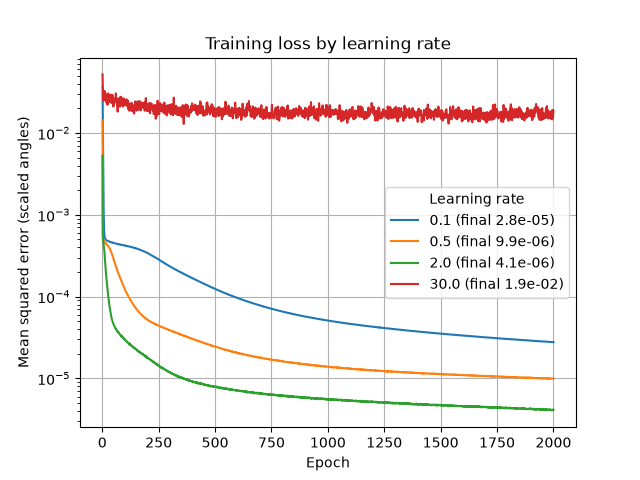
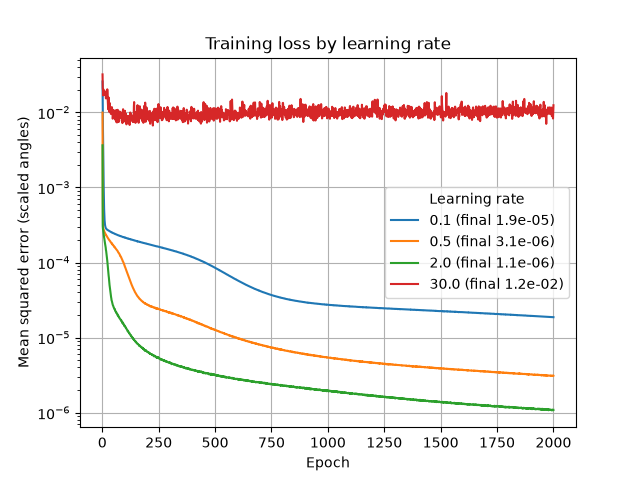
Update write-ups for the energy-penalised final gait

diff --git a/fitness_design.md b/fitness_design.md
@@ -8,7 +8,7 @@ Status: final. It covers the six terms in `fitness.py`, used for the final GA ru
 
 ## The terms
 
-Three rewards and three penalties. Every term runs from 0 to 1, except forward, which runs from -1 to 1.
+Three rewards and four penalties. Every term runs from 0 to 1, except forward, which runs from -1 to 1.
 
 - Support (reward): the fraction of frames in which at least 4 feet are touching the floor. The legs walk in two teams of four, so four feet on the ground is what a working gait looks like, and it is the stability the brief asks for.
 - Lift (reward): how far each foot rises above the top of the band at its highest point, as a fraction of 0.10 (capped at 1), averaged over the eight feet. It only counts for a foot that touches the floor at some point, so a leg held up in the air earns nothing. 0.10 above the band is about 0.15 above the floor, close to the 0.14 the best wave reached in the floor test. A spider that stands still scores 0.
@@ -16,12 +16,13 @@ Three rewards and three penalties. Every term runs from 0 to 1, except forward, 
 - Below floor (penalty): how far the feet go below -0.35, averaged over every foot and frame, divided by 0.033. The deepest any foot can reach is -0.383, so 0.033 is the deepest a foot can be below the band. A deeper dip costs more.
 - Too high (penalty): how far each foot's highest point is above z = -0.05 (just below body level), as a fraction of 0.5 (capped at 1). The lift reward stops at 1, so before this term a foot at z = 1.4 cost nothing.
 - Crowding (penalty): how far neighbouring feet, seen from above, come within 0.5 of each other, as a fraction of 0.5, averaged over the eight neighbouring pairs and every frame. 0.5 is the closest L1 and L2 get in the group's starting gait (0.5 to 0.56, `DECISIONS.md` section 3). The model has no leg thickness, so there is no physical limit to copy. The penalty starts below that distance, so the gait the design plans for is not punished for something the design already accepts.
+- Energy (penalty): the total angle each joint travels per step, divided by twice its range (a full swing there and back), averaged over the 24 joints. 0 is standing still, 1 is every joint swinging through its whole range and back in every step. The model has no masses or motors, so less movement for the same walk stands in for less energy. It was added because the brief asks for a fitness that balances speed, stability and energy efficiency.
 
 ## Weights
 
-Support 1.0, forward 1.0, below floor 1.0, too high 1.0, crowding 1.0, lift 0.5. The best possible score is 2.5 (support 1, forward 1, lift 0.5).
+Support 1.0, forward 1.0, below floor 1.0, too high 1.0, crowding 1.0, lift 0.5, energy 0.5. Before energy the best possible score is 2.5 (support 1, forward 1, lift 0.5). Any walk moves its joints, so the energy term always takes something off and a real gait scores below 2.5.
 
-Lift gets half weight because with equal weights a gait with every foot in the air and nothing planted scored as high as standing (random chromosomes averaged 0.90 against 1.00 for standing), so the GA could not tell flying legs from a working gait. Forward gets full weight because without it standing still scored the best possible 1.00 and nothing pushed the GA to walk. The two later penalties get full weight because they rule out poses that look wrong.
+Lift gets half weight because with equal weights a gait with every foot in the air and nothing planted scored as high as standing (random chromosomes averaged 0.90 against 1.00 for standing), so the GA could not tell flying legs from a working gait. Forward gets full weight because without it standing still scored the best possible 1.00 and nothing pushed the GA to walk. The two later penalties get full weight because they rule out poses that look wrong. Energy can take off at most its weight, and a perfect walk scores 2.5 before it, so any energy weight below 1.5 keeps every perfect walk above standing still (1.0). 0.5 leaves a wide margin and still changes which walk the GA picks.
 
 ## Check scores
 
@@ -30,10 +31,12 @@ Scored with the current fitness. The hand-made gaits use full-size waves with th
 | Gait | Score |
 | --- | --- |
 | Standing | 1.00 |
-| Hand-made wave, coxa timing +0.125 (walking forwards) | 1.95 |
-| Same, centres femur -0.375 and tibia -1.45 | 2.25 |
-| Same two waves, coxa timing -0.125 (walking backwards) | 0.15 and 0.25 |
-| 20 random chromosomes | mean -0.52, best 0.97 |
+| Hand-made wave, coxa timing +0.125 (walking forwards) | 1.63 |
+| Same, centres femur -0.375 and tibia -1.45 | 1.90 |
+| Same two waves, coxa timing -0.125 (walking backwards) | -0.17 and -0.10 |
+| 20 random chromosomes | mean -0.65, best 0.83 |
+
+The hand-made waves swing every joint at full size, so they pay a large energy penalty (about 0.7 of the possible 1).
 
 Walking forwards beats standing, walking backwards now scores well below standing because forward goes negative, and random gaits sit below both.
 
@@ -53,13 +56,17 @@ With the current fitness and 100 generations, the best reached 2.20 (average 2.1
 
 ### Final run
 
-Final settings, chosen from the experiments (`experiments.md`): population 80, mutation rate 0.1, tournament size 3, 50 generations, seed 1. Population 80 was the only setting that reached the maximum on every seed. Seed 42 was a poor start (2.13 with population 80), while seeds 1 and 2 both reached 2.5, so the final run uses seed 1.
+Final settings, chosen from the experiments (`experiments.md`): population 80, mutation rate 0.1, tournament size 3, seed 1 (population 80 was the only setting that reached the maximum on every seed, and seed 42 was a poor start). With the energy term the run uses 100 generations, because at 50 the best was still improving.
 
-The best reached the maximum score of 2.5 by about generation 32 and held it, with the average about 2.44 at generation 50. The final chromosome (`final_best_chromosome.npy`) scores support 1, lift 1, forward 1 and 0 on every penalty. Every foot lifts 0.10 to 0.18 above the band, the back legs included, and no foot goes below -0.35.
+The best reached 2.354. The final chromosome (`final_best_chromosome.npy`) scores support 1, lift 1, forward 1, 0 on every other penalty, and energy 0.292. The previous final gait (50 generations, before the energy term) scored the maximum 2.5, which is 2.286 under the current fitness (energy 0.429). So the new gait walks just as well with 32% less joint movement.
+
+Most of the progress came early. By generation 22 the best was 2.286, the same score as the previous final gait. The remaining 78 generations only added 0.068 (2.306 at generation 26, 2.315 at 36, 2.354 at 100). That fits the energy term trimming movement once the walk is in place: when support, lift and forward are all 1, moving less is the only way left to improve.
+
+That is also what the energy term does to the gait. The GA settles on the least movement that still maxes the forward and lift caps: every foot lifts 0.10 to 0.11 above the band, right at the 0.10 lift target. It also moves the swinging work onto the middle legs. L1's coxa swings only 0.024 rad and L4's 0.006 rad, so the front and back legs push with the femur and tibia, while L2 and L3 swing their coxas 0.35 and 0.89 rad.
 
 ## Why only every 5th frame is scored
 
-One step is 60 frames, so every 5th frame gives 12 samples per step. One call takes about 0.04 to 0.08 s that way, against 0.38 s for all 300 frames. The GA calls it thousands of times: 2,000 calls (40 chromosomes, 50 generations) is about 2 minutes.
+One step is 60 frames, so every 5th frame gives 12 samples per step. One call takes about 0.04 to 0.08 s that way, against 0.38 s for all 300 frames. The GA calls it thousands of times: 2,000 calls (40 chromosomes, 50 generations) is about 2 minutes, and the final run (80 chromosomes, 100 generations, about 8,000 calls) about 9 minutes.
 
 ## What changed along the way
 
@@ -70,16 +77,18 @@ One step is 60 frames, so every 5th frame gives 12 samples per step. One call ta
 - Sinking instead of lifting. What the GA did: a foot only counted as planted inside the band, so a foot below -0.35 counted as not planted. The GA used this for the return stroke: instead of lifting a foot to bring it forward, it dropped it under the floor. In the seeded run, L2, L4 and their right partners never rose above the band (highest points -0.30 and -0.31) and went below it instead (lowest -0.36 and -0.35), and 20% of forward-moving foot steps happened below -0.35. The forward reward was not cancelled, because those feet did not count as planted, and the below-floor penalty for being 0.01 to 0.03 deep was small. Fix (Lauren, commit fbc58bd): a foot at or below -0.25 counts as touching the floor, so a sunk foot moving forwards now cancels forward reward.
 - Legs held in the air. What the GA did: after the sinking fix, the seeded run's best held L2 and R2 up the whole time (lowest point -0.09, never near the floor). Lift only looked at a foot's highest point, so those legs earned lift without ever stepping, while the other six legs kept four feet down. How it was found: checking each foot's lowest point. Fix (a): lift only counts for a foot that touches the floor at some point.
 - Forward stopped at 0. A gait sliding the wrong way scored the same as one standing still, so the GA could not tell a slightly wrong gait from a very wrong one. This was not seen being exploited, it was a gap in the signal. Fix (b): forward can go down to -1.
+- No energy term. The brief asks for a fitness that balances speed, stability and energy efficiency, and the fitness had nothing for energy. The previous final gait also hit the 2.5 maximum by generation 32, after which the GA could not tell it apart from a better one. The energy penalty covers both: the GA now keeps improving after the walk is perfect, by finding a cheaper way to do it.
 
 ## Known limits
 
-- Forward and lift both stop at 1, so the most the fitness can give is 2.5. The final run reaches it by generation 32, after which the GA cannot tell that gait apart from a better one, which is why the best line goes flat. A higher cap or a speed reward would be needed to keep improving.
+- Forward and lift both stop at 1. With the energy term the score no longer sticks at a maximum, but the caps still decide the walk: the GA settles on the least movement that still maxes them, so the final gait walks exactly as fast as the forward cap and lifts exactly as high as the lift target. A faster or higher-stepping gait would need higher caps or a speed reward.
 - Support cannot tell a planted foot from a foot that is only passing below the top of the band on its way up or down.
-- In the earlier population-40 runs the back legs (L4, R4) shuffled rather than lifted: in the seeded 50-generation run their highest point stayed 0.06 below the top of the band. In the final run (population 80) they lift 0.12, so this applies to the weaker runs only.
+- In the earlier population-40 runs the back legs (L4, R4) shuffled rather than lifted: in the seeded 50-generation run their highest point stayed 0.06 below the top of the band. In the final run they lift 0.10, the same as the other legs, so this applies to the weaker runs only.
+- The front and back legs' coxas barely move in the final gait (see Final run). It scores perfectly, but it may look stiff, so it is worth checking in `show_best.py`.
 - The score does not look at the body or at balance, only at the feet. A gait can score well and still look odd, so `show_best.py` is the real check.
 
 ## How this was made
 
 Claude proposed the structure (support, lift and below floor) and assisted in writing the code for those three terms and the hand-made gaits. I ran `fitness.py` myself on the first version, with these results: standing 1.000, random mean 0.484, best 1.036 over 20 random chromosomes.
 
-The loophole analysis, the re-scored check table, the seeded GA results, the 100-generation run and `check_fitness()` were done with Claude's help.
+The loophole analysis, the re-scored check table, the seeded GA results, the 100-generation run and `check_fitness()` were done with Claude's help. The energy term was proposed and tested in Lauren's session with Claude; I added it to `fitness.py` and ran the final GA, which matched her test run exactly (2.354, energy 0.292).

diff --git a/nn/training.md b/nn/training.md
@@ -2,7 +2,7 @@
 
 ## What the network learns
 
-The network learns to reproduce the GA's final walking gait (`final_best_chromosome.npy`: population 80, seed 1, fitness 2.5). Given where the spider is in its step, it outputs all 24 joint angles for that moment.
+The network learns to reproduce the GA's final walking gait (`final_best_chromosome.npy`: population 80, seed 1, 100 generations, fitness 2.354 with the energy term). An earlier version of this write-up used the GA's previous final gait, from before the energy term; all numbers below are for the current one. Given where the spider is in its step, it outputs all 24 joint angles for that moment.
 
 ## Training data
 
@@ -28,24 +28,24 @@ I trained with four rates, keeping everything else the same (same seed, so the s
 
 | Learning rate | Error after epoch 100 | Error after epoch 2000 |
 | --- | --- | --- |
-| 0.1 | 0.000419 | 0.000028 |
-| 0.5 | 0.000122 | 0.000010 |
-| 2.0 | 0.000030 | 0.000004 |
-| 30.0 | 0.023221 | 0.018810 |
+| 0.1 | 0.000214 | 0.000019 |
+| 0.5 | 0.000088 | 0.0000031 |
+| 2.0 | 0.000014 | 0.0000011 |
+| 30.0 | 0.010492 | 0.012436 |
 
-- 0.1 is too low. It learns, but slowly: after the first drop it sits on a shelf around 0.0004 until about epoch 200.
-- 0.5 and 2.0 both fall smoothly. 2.0 is fastest and ends lowest, with an error 2.5 times lower than 0.5.
-- 30.0 is too high. The error jumps around from epoch to epoch and never gets below about 0.015, so the network does not learn the gait at all. In a shorter test, 10.0 still learned but its error kept jumping back up.
+- 0.1 is too low. It learns, but slowly: after the first drop it sits on a shelf between 0.0002 and 0.0001 until about epoch 500.
+- 0.5 and 2.0 both fall smoothly. 2.0 is fastest (below 0.00001 by about epoch 150) and ends lowest, with an error about 2.8 times lower than 0.5.
+- 30.0 is too high. The error jumps around from epoch to epoch and stays around 0.01, so the network does not learn the gait at all. In a shorter test on the earlier gait, 10.0 still learned but its error kept jumping back up.
 
 I chose 2.0. It gave the lowest error and the fastest training with no instability, and trouble only started around 10, so it leaves a wide margin below the point where training breaks.
 
 ## Result
 
-With learning rate 2.0 the final error is 0.000004. Turned back into angles over all 24 joints and 300 frames, the predictions are 0.0009 rad off on average, and 0.016 rad (0.93 degrees) at worst. The worst joint is the L3 tibia. The predicted-against-real graph shows L1's coxa, femur and tibia over one step, where the predictions sit on top of the real angles. The only visible gap is at the coxa's peaks.
+With learning rate 2.0 the final error is 0.0000011. Turned back into angles over all 24 joints and 300 frames, the predictions are 0.0006 rad off on average, and 0.0085 rad (0.48 degrees) at worst. The worst joint is the R3 tibia. The predicted-against-real graph shows L1's coxa, femur and tibia over one step, where the predictions sit on top of the real angles. In this gait L1's coxa barely moves (0.024 rad in total), so the graph mainly shows the femur and tibia.
 
 ## Limits
 
-- The full four-rate comparison uses one seed (0). To check 2.0 against 0.5 was not luck, both were also trained with seeds 1 and 2. 2.0 ended lower every time: 0.0000041, 0.0000039 and 0.0000056 against 0.0000099, 0.0000106 and 0.0000097 for 0.5 (seeds 0, 1 and 2).
+- The full four-rate comparison uses one seed (0). To check 2.0 against 0.5 was not luck, both were also trained with seeds 1 and 2. 2.0 ended lower every time: 0.0000011, 0.0000012 and 0.0000010 against 0.0000031, 0.0000050 and 0.0000043 for 0.5 (seeds 0, 1 and 2).
 - There is no separate test set. The gait repeats every 60 frames, so all 300 examples are the same 60 moments, and the network is only tested on moments it trained on. A fairer check would be phases between the frames it saw.
 - The error was still falling slowly at epoch 2000, so more epochs would lower it a little more.
 

diff --git a/experiments.md b/experiments.md
@@ -10,7 +10,7 @@ I changed one GA setting at a time and kept the other two at the defaults `ga.py
 
 Each setting was run with seeds 1, 2 and 3, so one lucky run does not decide anything. The default settings appear in all three groups but were run once, so the full set is 21 runs. Every run is seeded, so the same seed always gives the same run.
 
-The fitness is the version after the lift and forward fixes (commit e239a78). The most it can give is 2.5 (support 1, forward 1, lift 0.5).
+The fitness is the version after the lift and forward fixes (commit e239a78), before the energy term was added. Scores here are therefore on the old scale, where 2.5 was reachable. The final gait in `fitness_design.md` uses the later fitness, so its 2.354 is not comparable with these numbers. The most it can give is 2.5 (support 1, forward 1, lift 0.5).
 
 To repeat this: `python experiments.py --out experiment_results_v3`. The summary table and the three graphs from this run are in `results/experiments/`.
 
